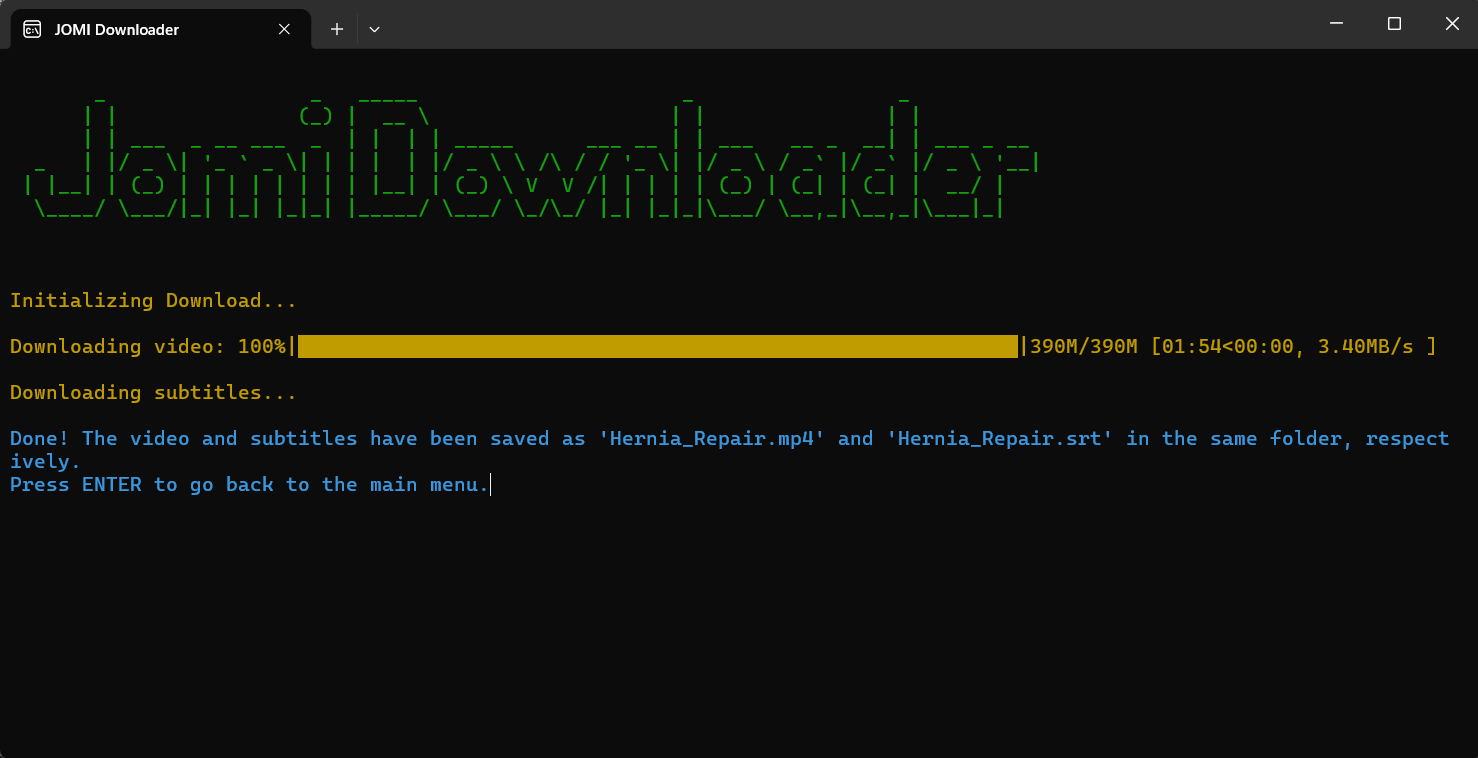
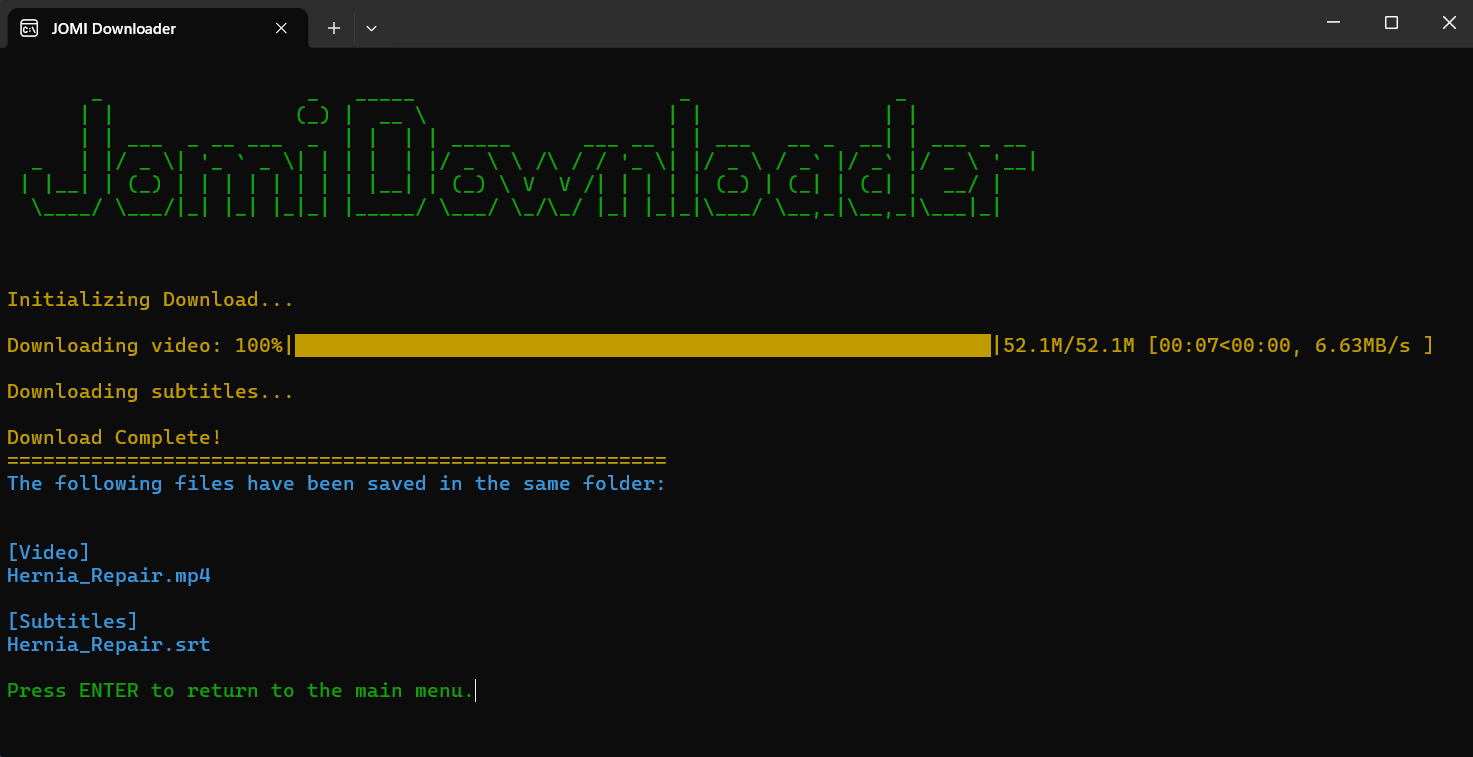
Minor UI polish: the display text after the download is more beautiful now.

diff --git a/main.py b/main.py
@@ -102,7 +102,17 @@ async def download_video(vid_name, vid_url):
 
     print(f"{YELLOW}Initializing Download...\n")
     await scraper.download_video()
-    input(f"{AQUA}\nDone! The video and subtitles have been saved as '{vid_name}.mp4' and '{vid_name}.srt' in the same folder, respectively.\nPress ENTER to go back to the main menu.")
+    print(f"\nDownload Complete!")
+    print("=======================================================")
+    print(f"{AQUA}The following files have been saved in the same folder:\n\n")
+
+    print("[Video]")
+    print(f"{vid_name}.mp4\n")
+
+    print("[Subtitles]")
+    print(f"{vid_name}.srt")
+
+    input(f"\n{GREEN}Press ENTER to return to the main menu.")
     
 def get_user_settings() -> dict:
     try:

diff --git a/README.md b/README.md
@@ -54,8 +54,8 @@ To download a JOMI video, follow these steps (screenshots are shown at the end):
 2. You will be asked to provide the URL for the JOMI video page. Paste the URL and press ENTER.
 3. You will then be asked to provide a name for the output video. Type the name without an extension and press ENTER.
 4. Sit back and relax while the downloader downloads the video and its captions for you.
-5. Once the video is downloaded, you will see a message in blue saying 'Done! The video has been saved as ...'. Once you see this, press ENTER to go back to the main menu.
-6. The video will be saved in the same folder as a ".mp4" video file, and the captions file will be saved in the same folder as a ".srt" file with the same name as the video.
+5. Once the video is downloaded, you will see a message saying 'Download Complete!'. Once you see this, press ENTER to go back to the main menu.
+6. The video will be saved in the same folder as a ".mp4" video file, and the subtitles file will be saved in the same folder as a ".srt" file with the same name as the video.
 
 ## Screenshots
 Step 1:
